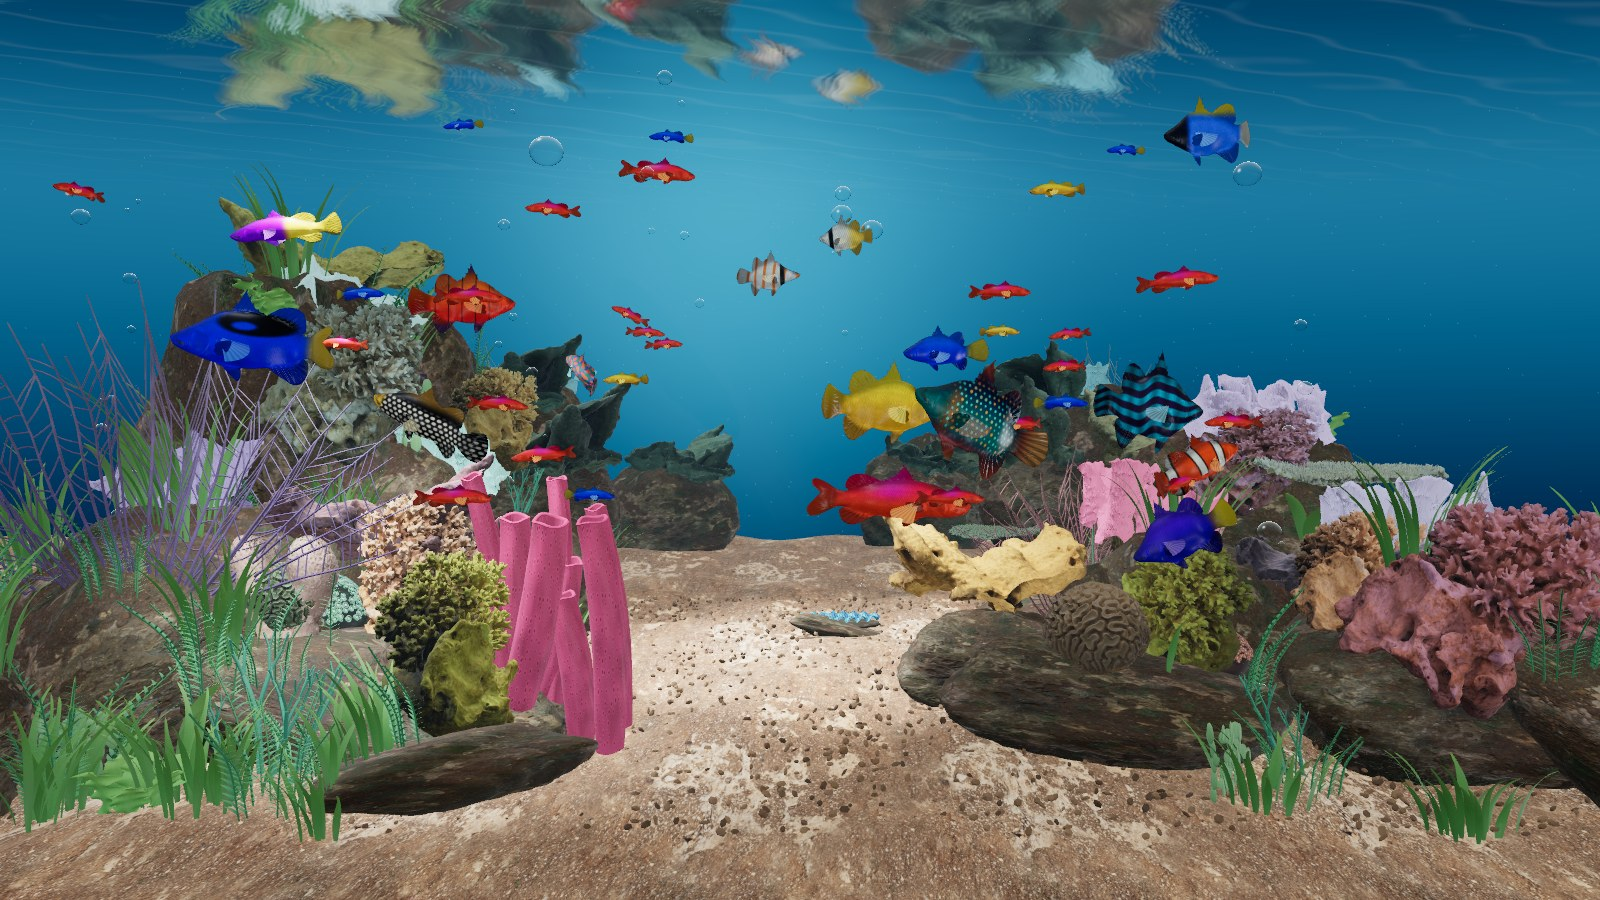
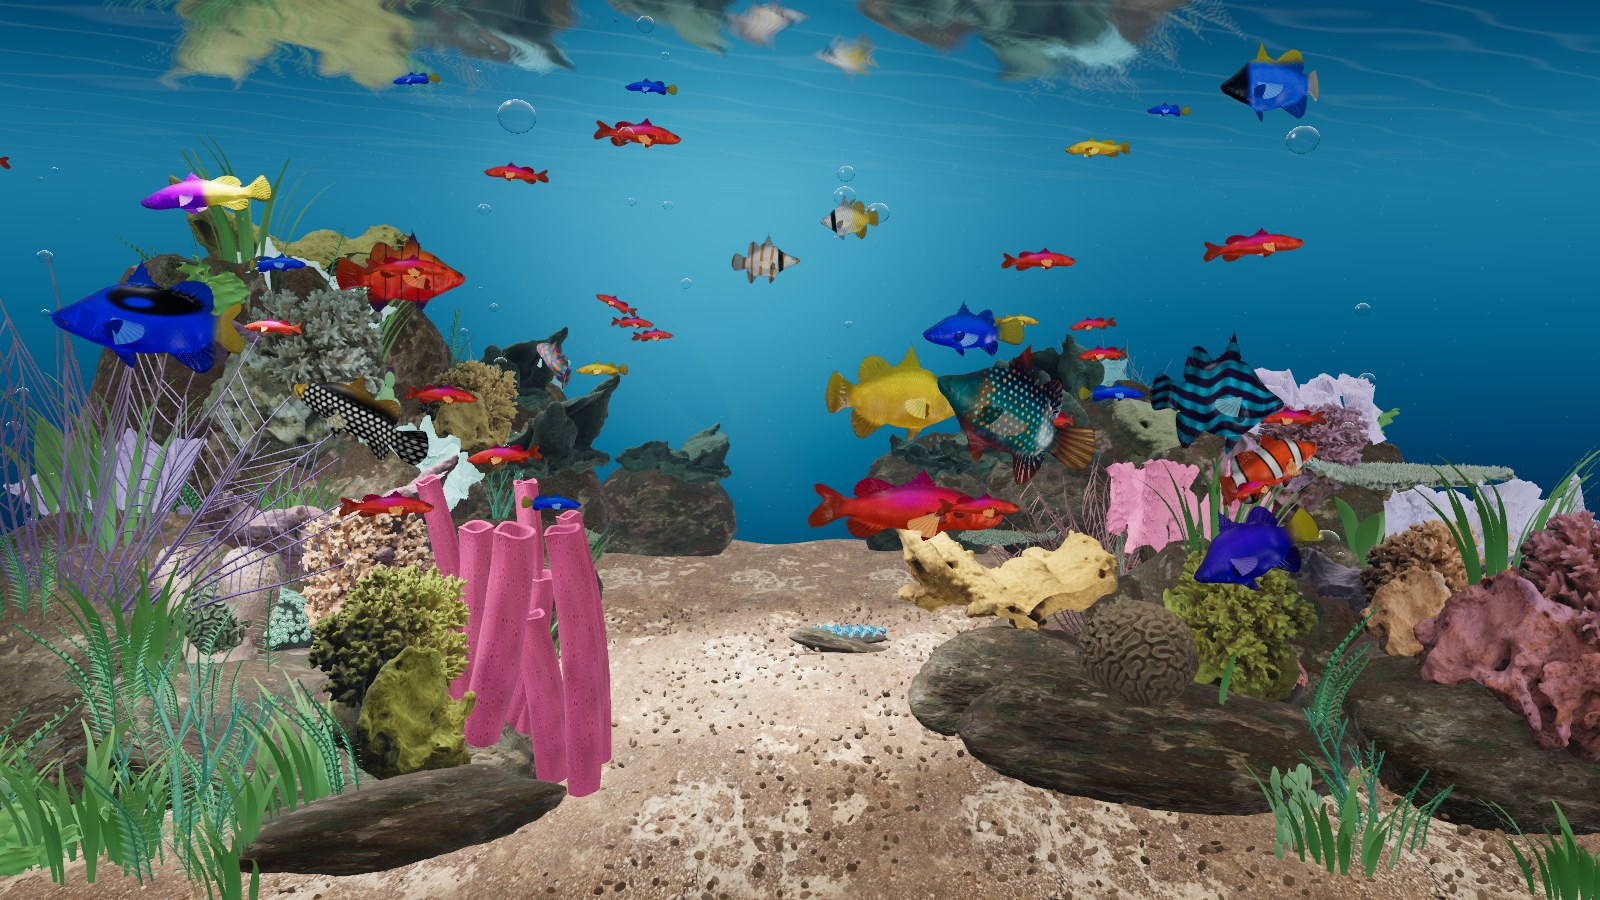
release: prepare Reef Live 1.0.0
Increase default scene magnification by 10%, use the supplied README hero image, and refresh the three-theme gallery. Add download and first-launch instructions and bump the app to version 1.0.0 (build 19).

diff --git a/src/navigation.js b/src/navigation.js
@@ -11,7 +11,7 @@ export function createNavigation({
   onFishMove,
 }) {
   const target = new T.Vector3(0, 3.35, -0.8);
-  const defaultDistance = 17.3;
+  const defaultDistance = 17.3 / 1.1; // 10% greater magnification at the view target.
   let distance = defaultDistance,
     yaw = 0,
     pitch = 0.0414;

diff --git a/scripts/create-blender.py b/scripts/create-blender.py
@@ -23,7 +23,8 @@ def area(name,location,energy,color,size,target):
 area('Soft turquoise water fill',(1,-6,7),1050,(.92,.96,1.),9,(0,1,3))
 sun_data=bpy.data.lights.new('Upper-left sunlight','SPOT');sun_data.energy=4250;sun_data.color=(.91,.96,1.);sun_data.spot_size=.68;sun_data.spot_blend=.78;sun_data.shadow_soft_size=.35
 sun=bpy.data.objects.new('Upper-left sunlight',sun_data);scene.collection.objects.link(sun);sun.location=(-6.5,-1.0,12.5);aim(sun,(.8,2.,.5))
-camdata=bpy.data.cameras.new('Reference composition');cam=bpy.data.objects.new('Reference composition',camdata);scene.collection.objects.link(cam);cam.location=(0,-16.485,4.066);aim(cam,(0,.8,3.35));camdata.lens=28.5;camdata.sensor_width=36;camdata.dof.use_dof=True;camdata.dof.focus_distance=17.3;camdata.dof.aperture_fstop=8;scene.camera=cam
+view_distance=17.3 / 1.1
+camdata=bpy.data.cameras.new('Reference composition');cam=bpy.data.objects.new('Reference composition',camdata);scene.collection.objects.link(cam);cam.location=(0,.8-math.cos(.0414)*view_distance,3.35+math.sin(.0414)*view_distance);aim(cam,(0,.8,3.35));camdata.lens=28.5;camdata.sensor_width=36;camdata.dof.use_dof=True;camdata.dof.focus_distance=view_distance;camdata.dof.aperture_fstop=8;scene.camera=cam
 world=bpy.data.worlds.new('Deep teal water');world.use_nodes=True;world.node_tree.nodes['Background'].inputs['Color'].default_value=(.045,.18,.23,1);world.node_tree.nodes['Background'].inputs['Strength'].default_value=.28;scene.world=world
 env=world.node_tree.nodes.new('ShaderNodeTexEnvironment');env.image=bpy.data.images.load(str(root/'assets/lighting/studio_small_08_1k.hdr'));env.image.pack();world.node_tree.links.new(env.outputs['Color'],world.node_tree.nodes['Background'].inputs['Color'])
 # Cycles homogeneous participating water medium for offline look development.

diff --git a/README.md b/README.md
@@ -6,7 +6,7 @@
 
 Watch colorful fish swim through a planted reef, tap them for a quick reaction, or explore with a drag and a pinch. Reef runs locally in your menu bar, with no account, subscription or internet connection needed during playback.
 
-![Reef in Daylight: blue water, colorful fish and a planted coral canyon](docs/images/daylight.jpg)
+![Reef in Daylight: blue water, colorful fish and a planted coral canyon](docs/images/reef-hero.png)
 
 ## Three worlds, one aquarium
 
@@ -16,9 +16,9 @@ Watch colorful fish swim through a planted reef, tap them for a quick reaction, 
 | 🌙 **UV Night** | Deep ultramarine water with selective fluorescent fish, coral and plant markings. |
 | 🪐 **Planet X** | An imagined alien sea with copper light, plum water and shifting bioluminescent patterns. |
 
-| UV Night | Planet X |
-| :---: | :---: |
-| ![Ultramarine UV Night aquarium](docs/images/uv-night.jpg) | ![Copper and plum Planet X aquarium](docs/images/planet-x.jpg) |
+| Daylight | UV Night | Planet X |
+| :---: | :---: | :---: |
+| ![Bright Daylight aquarium](docs/images/daylight.jpg) | ![Ultramarine UV Night aquarium](docs/images/uv-night.jpg) | ![Copper and plum Planet X aquarium](docs/images/planet-x.jpg) |
 
 *Screenshots are captured from the running app, not concept renders.*
 
@@ -41,12 +41,14 @@ The cycle follows your Mac’s local clock and catches up after sleep.
 
 ## Get started
 
-**Requirements:** macOS 14 or newer. Apple silicon is the tested platform; Intel builds are not validated. This repository contains source and runtime assets, not an installer.
+**Requirements:** macOS 14 or newer. Apple silicon is the tested platform; Intel builds are not validated. The downloadable app is for Apple silicon Macs.
 
-1. [Build Reef](#build-from-source), then open `build/Reef.app`. You can move it to Applications.
+1. **[Download Reef for Mac](https://github.com/hckmstrrahul/reef-live/releases/latest)**, unzip it, and move `Reef.app` to Applications. No Node.js or Blender required. You can also [build from source](#build-from-source).
 2. Click the little fish in your menu bar and choose **Start desktop wallpaper**.
 3. Keep **Interact with desktop aquarium** checked for desktop gestures.
 4. Choose **Appearance → Daily cycle**, or select your favorite theme.
+
+**First launch:** this release is ad-hoc signed, not Apple-notarized. If macOS blocks it, follow [Apple’s Open Anyway instructions](https://support.apple.com/en-us/102445) only if you trust this download.
 
 Leave Reef running in the menu bar. Closing the preview is fine. **Stop desktop wallpaper** reveals your usual wallpaper. After quitting and reopening Reef, start the wallpaper again.
 
